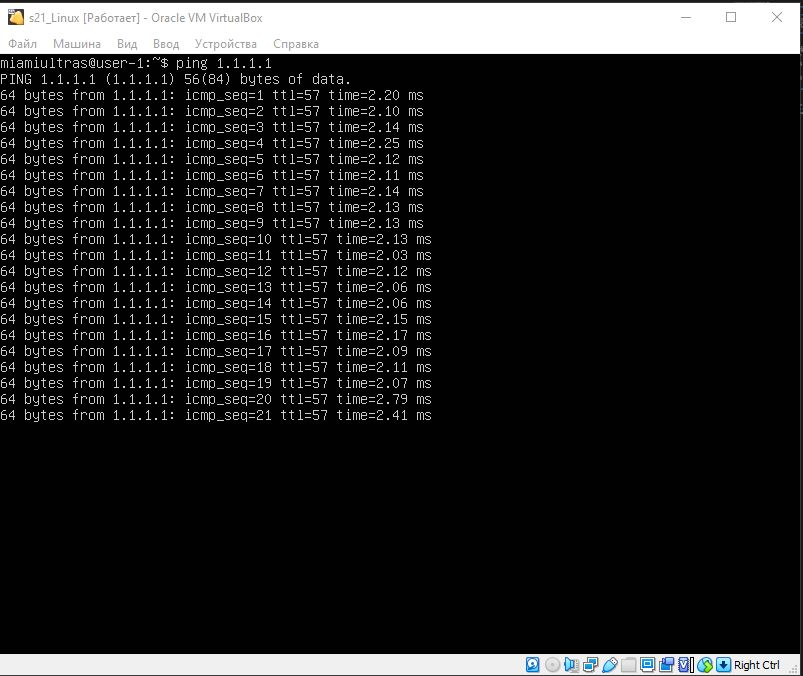
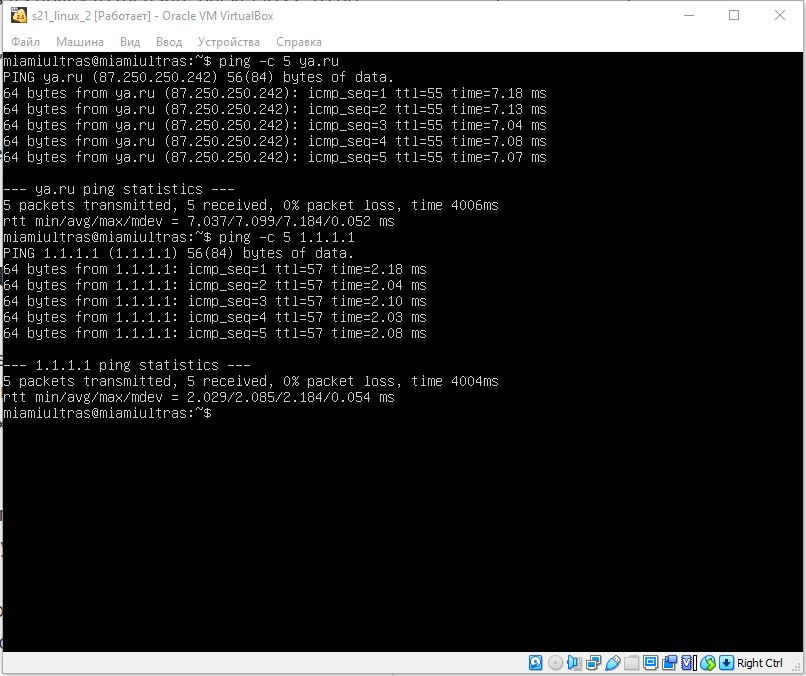
done ping
3

Changed region(s): [[0.0, 0.0, 1.0, 1.0]]

diff --git a/Readme.md b/Readme.md
@@ -72,11 +72,8 @@ after all need to write "sudo netplan apply" to console, then reboot.
 ##### Reboot the virtual machine. Make sure that the static network settings (ip, gw, dns) correspond to those set in the previous point.
 Reboot the virtual machine. Make sure that the static network settings (ip, gw, dns) correspond to those set in the previous point. 
 
-ping ya.ru
-ping 8.8.8.8
-
-![ping_ya](/img/ping_ya.JPG)
-![ping_1](/img/ping_1.JPG)
+ping -c 5 ya.ru, to ping 5 times and see the result. Same with 1.1.1.1
+![ping_all](/img/ping_1.JPG)
 
 "ip r" to console, to check that our settings was saved.
 
